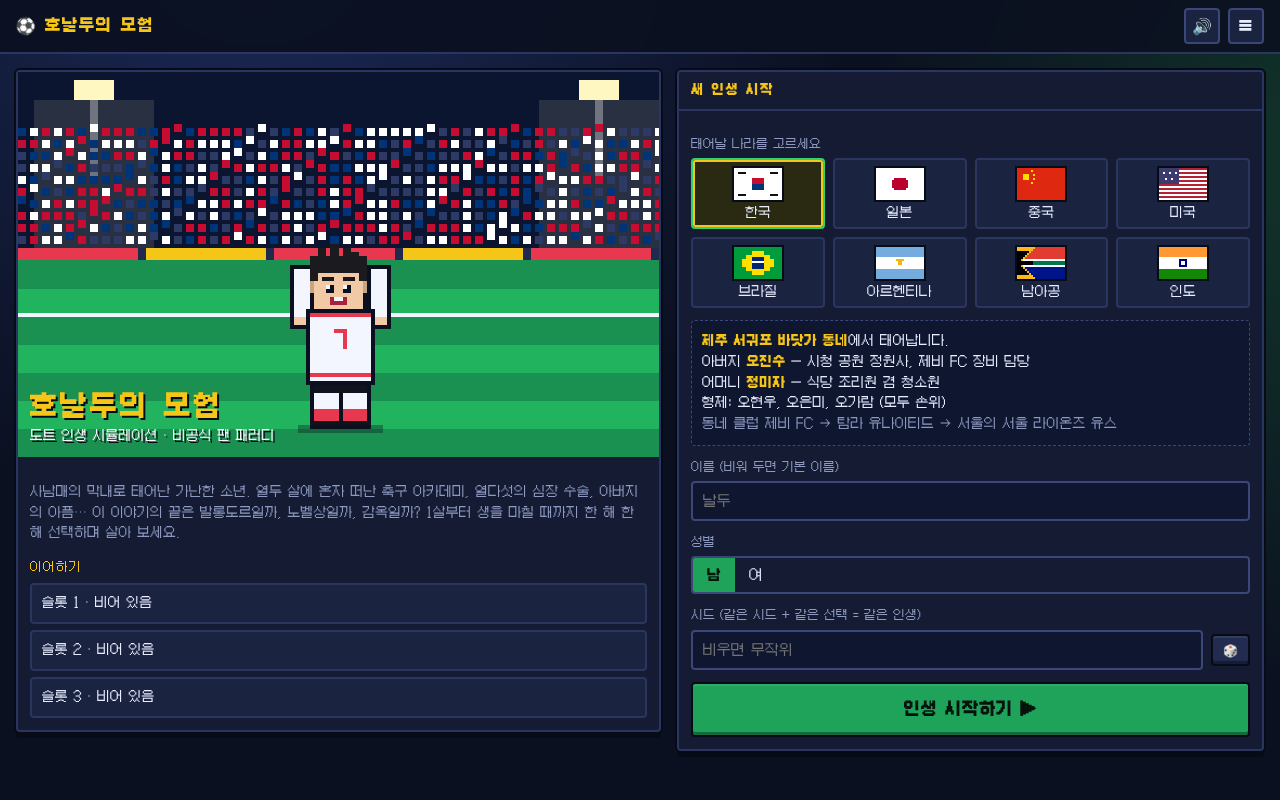
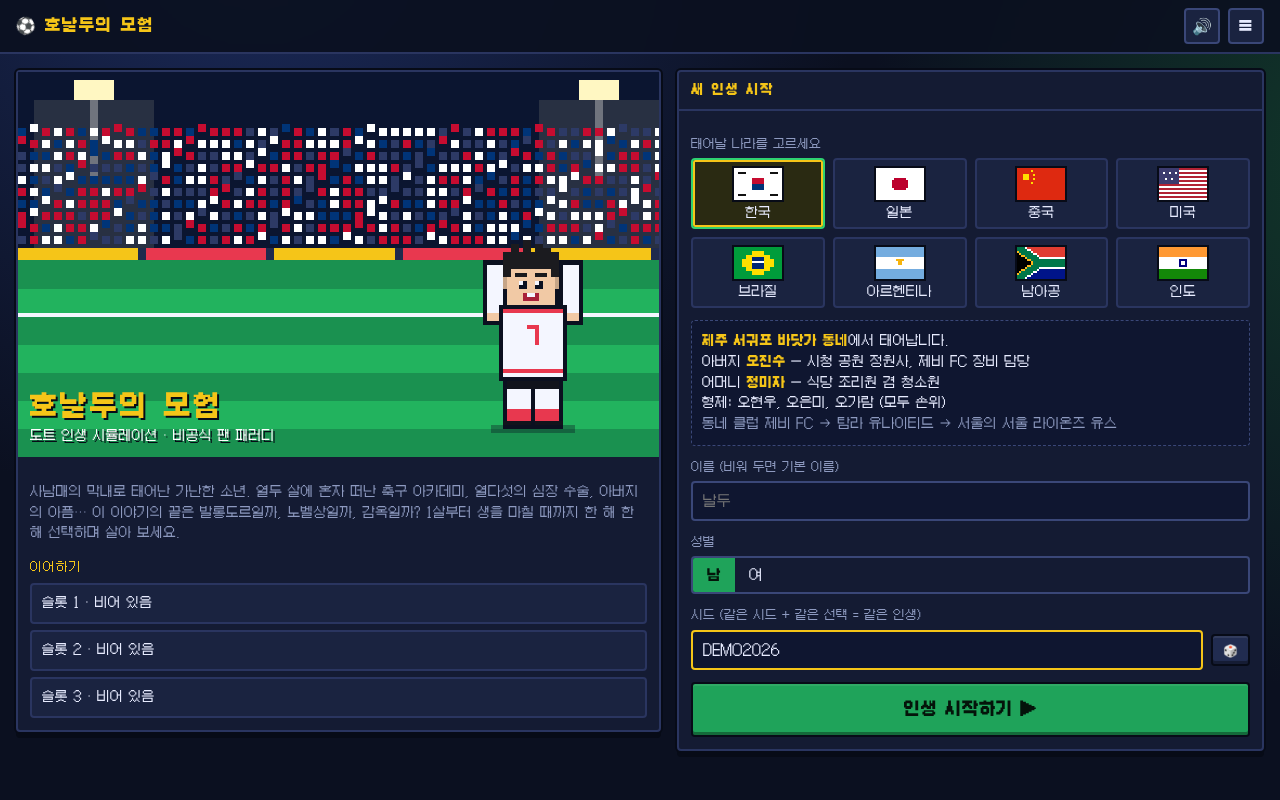
UI: redraw on resize/rotate, tap reasons on touch, title/sprite spacing, South Africa flag; docs and screenshots
Claude-Session: https://claude.ai/code/session_01JDo4Mn6pQ9gwYKpXAYtC3c

diff --git a/js/ui.js b/js/ui.js
@@ -24,6 +24,10 @@
   // ---------------------------------------------------------------- animation loop (≈12 fps)
   function addCanvas(el, draw) { app.canvases.push({ el: el, draw: draw }); draw(performance.now()); }
   var last = 0;
+  function redrawAll() {
+    var t = performance.now();
+    app.canvases.forEach(function (c) { try { c.draw(t); } catch (e) { /* ignore */ } });
+  }
   function loop(t) {
     if (t - last > 80) {
       last = t;
@@ -41,12 +45,12 @@
       outfit: E.outfit(s), gender: s.hero.gender, number: s.flags.number7 ? 7 : 28, sick: !!s.sick, mood: m
     };
   }
-  function portraitCanvas(cls, sceneFn, lookFn) {
+  function portraitCanvas(cls, sceneFn, lookFn, heroX) {
     var cv = doc.createElement('canvas'); cv.width = P.W; cv.height = P.H; cv.className = 'px ' + (cls || '');
     addCanvas(cv, function (t) {
       var ctx = cv.getContext('2d'); ctx.imageSmoothingEnabled = false;
       var sc = sceneFn(); P.drawScene(ctx, sc, t, country());
-      var lk = lookFn && lookFn(); if (lk && sc !== 'grave') P.drawHero(ctx, 80, 88, Object.assign({ t: t }, lk));
+      var lk = lookFn && lookFn(); if (lk && sc !== 'grave') P.drawHero(ctx, heroX || 80, 88, Object.assign({ t: t }, lk));
     });
     return cv;
   }
@@ -138,7 +142,7 @@
     banner.appendChild(portraitCanvas('', function () { return 'stadium'; }, function () {
       var cc = RA.data.countries[app.sel.country];
       return { age: 24, skin: cc.skin[0], hairColor: cc.hair, hair: 1, outfit: 'kit', gender: app.sel.gender, number: 7, mood: 'celebrate' };
-    }));
+    }, 128));
     banner.appendChild(h('<div class="title-over"><h1>호날두의 모험</h1><p>도트 인생 시뮬레이션 · 비공식 팬 패러디</p></div>'));
     // countries
     var grid = $('#countries', el);
@@ -204,6 +208,9 @@
   }
   function save() { if (app.s) S.save(app.slot, app.s); }
   function isPhone() { return G.innerWidth <= 860; }
+  function isTouch() {
+    try { return G.matchMedia('(hover: none)').matches || G.matchMedia('(pointer: coarse)').matches; } catch (e) { return 'ontouchstart' in G; }
+  }
 
   // ---------------------------------------------------------------- game screen
   function renderGame() {
@@ -316,12 +323,15 @@
     if (!s.alive) { p.innerHTML = '<p class="muted">이번 생은 끝났습니다.</p>'; return; }
     var grid = h('<div class="acts"></div>');
     E.activities(s).forEach(function (a) {
-      var b = h('<button class="act" ' + (a.ok ? '' : 'disabled') + ' title="' + esc(a.reason) + '"><span class="ic">' + a.icon + '</span><span>' + esc(a.label) + '</span>' + (a.cost === 0 ? '<span class="muted" style="font-size:10px">행동력 0</span>' : '') + '</button>');
-      b.addEventListener('click', function () { onActivity(a); });
+      var b = h('<button class="act' + (a.ok ? '' : ' is-off') + '" aria-disabled="' + (a.ok ? 'false' : 'true') + '" title="' + esc(a.reason) + '"><span class="ic">' + a.icon + '</span><span>' + esc(a.label) + '</span>' + (a.cost === 0 ? '<span class="muted" style="font-size:10px">행동력 0</span>' : '') + '</button>');
+      b.addEventListener('click', function () {
+        if (!a.ok) { A.play('bad'); toast(a.label + ': ' + (a.reason || '지금은 할 수 없어요.')); return; }
+        onActivity(a);
+      });
       grid.appendChild(b);
     });
     p.appendChild(grid);
-    p.appendChild(h('<p class="hint">해마다 행동력 ' + E.AP_PER_YEAR + '을 쓸 수 있어요. 다 쓰지 않아도 나이를 먹을 수 있습니다. 회색 버튼에 마우스를 올리면 이유가 보여요.</p>'));
+    p.appendChild(h('<p class="hint">해마다 행동력 ' + E.AP_PER_YEAR + '을 쓸 수 있어요. 다 쓰지 않아도 나이를 먹을 수 있습니다. ' + (isTouch() ? '회색 버튼을 누르면 할 수 없는 이유가 보여요.' : '회색 버튼에 마우스를 올리거나 누르면 이유가 보여요.') + '</p>'));
   }
 
   function onActivity(a) {
@@ -359,9 +369,10 @@
   function achById(id) { return (RA.data.achievements || []).filter(function (a) { return a.id === id; })[0]; }
 
   function relLabel(p) {
-    var map = { father: '아버지', mother: '어머니', spouse: '배우자', partner: '연인', child: p.gender === 'f' ? '딸' : '아들', coach: '코치', friend: '단짝', oldfriend: '옛 친구', ex: '옛 연인' };
-    if (p.role === 'sibling') return p.gender === 'f' ? '자매' : '형제';
-    return map[p.role] || p.role;
+    if (p.role === 'friend') return '단짝';
+    if (p.role === 'coach') return '코치';
+    if (p.role === 'oldfriend') return '옛 친구';
+    return E.relWord(app.s, p);
   }
   function relIcon(p) { return { father: '👨', mother: '👩', sibling: p.gender === 'f' ? '👧' : '👦', spouse: '💍', partner: '💘', child: '🧒', coach: '🧢', friend: '🤝', oldfriend: '👋', ex: '💔' }[p.role] || '🙂'; }
   function panelPeople(p) {
@@ -644,8 +655,21 @@
       if (e.key === 'Escape' && $('.modal-wrap') && !app.s || (e.key === 'Escape' && $('.modal-wrap') && !(app.s && app.s.queue.length))) closeModal();
       if (e.key === 'Enter' && app.screen === 'game' && !$('.modal-wrap') && doc.activeElement === doc.body) onAgeUp();
     });
-    var lastPhone = isPhone();
-    G.addEventListener('resize', function () { var ph = isPhone(); if (ph !== lastPhone) { lastPhone = ph; if (app.screen === 'game') { renderTabs(); renderPanel(); } } });
+    var resizeTimer = null, lastW = G.innerWidth;
+    function onViewportChange(e) {
+      // height-only changes (mobile address bar showing/hiding) must not rebuild the screen
+      if (e && e.type === 'resize' && G.innerWidth === lastW) { redrawAll(); return; }
+      lastW = G.innerWidth;
+      clearTimeout(resizeTimer);
+      resizeTimer = setTimeout(function () {
+        if (app.screen === 'game' && app.s) renderGame();
+        else if (app.screen === 'summary' && app.s) renderSummary();
+        else if (app.screen === 'start') renderStart();
+        redrawAll();
+      }, 150);
+    }
+    G.addEventListener('resize', onViewportChange);
+    G.addEventListener('orientationchange', onViewportChange);
     var list = S.list();
     renderStart();
     G.requestAnimationFrame(loop);

diff --git a/js/pixel.js b/js/pixel.js
@@ -346,7 +346,23 @@
       case 'us': for (var i = 0; i < 8; i++) r(0, i * 2, 24, 1, '#b22234'), r(0, i * 2 + 1, 24, 1, '#fff'); r(0, 0, 10, 8, '#3c3b6e'); r(2, 2, 1, 1, '#fff'); r(5, 2, 1, 1, '#fff'); r(8, 2, 1, 1, '#fff'); r(3, 5, 1, 1, '#fff'); r(6, 5, 1, 1, '#fff'); break;
       case 'br': r(0, 0, 24, 16, '#009c3b'); r(6, 4, 12, 8, '#ffdf00'); r(4, 6, 16, 4, '#ffdf00'); r(9, 2, 6, 12, '#ffdf00'); r(9, 5, 6, 6, '#002776'); r(9, 7, 6, 1, '#fff'); break;
       case 'ar': r(0, 0, 24, 16, '#fff'); r(0, 0, 24, 5, '#74acdf'); r(0, 11, 24, 5, '#74acdf'); r(11, 7, 2, 2, '#f6b40e'); r(10, 6, 4, 1, '#f6b40e'); break;
-      case 'za': r(0, 0, 24, 8, '#e03c31'); r(0, 8, 24, 8, '#001489'); r(0, 6, 24, 4, '#fff'); r(0, 7, 24, 2, '#007749'); for (var k = 0; k < 8; k++) { r(0, k, Math.max(1, 9 - k), 1, k < 7 ? '#ffb81c' : '#ffb81c'); r(0, 15 - k, Math.max(1, 9 - k), 1, '#ffb81c'); } for (var k2 = 1; k2 < 7; k2++) { r(0, k2 + 1, Math.max(0, 7 - k2), 1, '#000'); r(0, 14 - k2, Math.max(0, 7 - k2), 1, '#000'); } r(0, 7, 8, 2, '#000'); break;
+      case 'za': {
+        // Drawn per pixel from the flag's geometry: a green Y (white-edged outside, gold-edged inside)
+        // whose arms start at the hoist corners and join a horizontal band; black triangle at the hoist.
+        var X0 = 12, k = 8 / X0;
+        for (var py = 0; py < 16; py++) for (var px = 0; px < 24; px++) {
+          var cx = px + 0.5, dy = Math.abs(py + 0.5 - 8), dist, inFork = false;
+          if (cx >= X0) dist = dy;
+          else { var armY = k * (X0 - cx); dist = Math.abs(dy - armY) / Math.sqrt(1 + k * k); inFork = dy < armY; }
+          var col;
+          if (dist < 1.6) col = '#007749';
+          else if (dist < 2.6) col = inFork ? '#ffb81c' : '#ffffff';
+          else if (inFork) col = '#000000';
+          else col = py < 8 ? '#e03c31' : '#001489';
+          r(px, py, 1, 1, col);
+        }
+        break;
+      }
       case 'in': r(0, 0, 24, 5, '#ff9933'); r(0, 5, 24, 6, '#fff'); r(0, 11, 24, 5, '#138808'); r(10, 6, 4, 4, '#000080'); r(11, 7, 2, 2, '#fff'); break;
       default: r(0, 0, 24, 16, '#888');
     }

diff --git a/css/style.css b/css/style.css
@@ -93,7 +93,7 @@ input[type=text]:focus { outline: none; border-color: var(--gold); }
 .start { display: grid; gap: 16px; grid-template-columns: 1.1fr 1fr; align-items: start; }
 .hero-banner { position: relative; overflow: hidden; }
 .hero-banner canvas { width: 100%; height: auto; aspect-ratio: 160 / 96; }
-.hero-banner .title-over { position: absolute; left: 12px; right: 12px; bottom: 10px; text-shadow: 2px 2px 0 #070b17; }
+.hero-banner .title-over { position: absolute; left: 12px; bottom: 10px; max-width: 64%; text-shadow: 2px 2px 0 #070b17; }
 .title-over h1 { margin: 0; font-size: 28px; color: var(--gold); letter-spacing: 2px; line-height: 1.2; }
 .title-over p { margin: 2px 0 0; font-size: 13px; color: #fff; }
 .pitch-text { font-size: 13px; color: var(--muted); }
@@ -179,8 +179,8 @@ input[type=text]:focus { outline: none; border-color: var(--gold); }
   padding: 10px 4px; display: grid; justify-items: center; gap: 2px; font-size: 12px; min-height: 66px; text-align: center;
 }
 .act .ic { font-size: 20px; line-height: 1.1; }
-.act:hover:not(:disabled) { border-color: var(--green); transform: translateY(-1px); }
-.act:disabled { opacity: .4; cursor: not-allowed; }
+.act:hover:not(.is-off) { border-color: var(--green); transform: translateY(-1px); }
+.act.is-off { opacity: .4; cursor: help; }
 .hint { font-size: 12px; color: var(--muted); margin: 10px 0 0; }
 
 .people { display: grid; gap: 8px; }
@@ -283,6 +283,7 @@ input[type=text]:focus { outline: none; border-color: var(--gold); }
   .countries { grid-template-columns: repeat(4, 1fr); }
   .seed-chip { display: none; }
   .title-over h1 { font-size: 22px; }
+  .title-over p { font-size: 11px; }
 }
 @media (max-width: 400px) {
   .acts { grid-template-columns: repeat(3, 1fr); gap: 6px; }

diff --git a/docs/DESIGN.md b/docs/DESIGN.md
@@ -66,6 +66,58 @@ Failbetter Games' StoryNexus/"storylet" design diaries, Choice of Games "End Gam
 - **Mobile.** ≤ 860px: single column, portrait + stats on top, tabs (기록/활동/관계/학업·직업/축구/업적),
   newest-first log, sticky bottom age button. Checked at 390×844.
 
+## 2b. Narrative-consistency rules (review round 1)
+
+- **Person gating.** Before an event can fire, the engine collects every person it names: the tokens
+  `{father} {mother} {bro} {sis1} {sis2} {spouse} {partner} {child} {friend} {coach} {siblings}`, plus the plain
+  words 아버지/아빠 and 어머니/엄마. Words like 할아버지 or 시어머니 are removed first, and events about the hero's
+  own children are exempt. The event is eligible only while each named person is alive and present
+  (`Engine.personsOk`). The same check runs on scheduled follow-ups, on queued modal events (`currentEvent` drops an event
+  that became invalid), and on activity flavour lines.
+- **Memorial tag.** `memorial: true` or `memorial: ['father']` lets an event name people who have died. A condition
+  `rel: { mother: 'dead' }` or the flags `father_dead`/`mother_dead` imply it. Log lines written by memorial events
+  carry `mem: 1`, which the narrative test uses.
+- **Siblings as a group.** `{siblings}` renders only living siblings ("현우, 가람"), and `{siblingsAll}` gives a count
+  word that includes the hero ("셋"). An event that uses either is skipped when no sibling is alive.
+- **Deaths.** `Engine.relWord` gives the correct kinship word: 형/오빠/누나/언니/남동생/여동생 from the hero's
+  gender and birth order, plus 아내/남편/아들/딸. A death in the family queues a seriously written grief event
+  (`sys_grief`; the father keeps `canon_father_farewell`). That year no random storylets fire, only due follow-ups and
+  priority events. A "first holiday after a death" event uses `cond.recent: { mother_dead: 2 }`, so it fires at most
+  once and only within 2 years of the death. Present-tense texts that say "여섯 식구" use `cond.family: 'all'`, which
+  requires both parents and all three siblings to be alive.
+- **Jail gating.** While the hero is in prison, only events flagged `jailOk`, `anyState`, or with `cond.flags`
+  containing `jailed` may fire. Grief and farewell events count as family visits. Queued events are filtered the moment
+  a sentence starts (`dropJailBlocked`). A scheduled follow-up that comes due during the sentence waits until release.
+  Only study, exercise, meditation and family visits remain as activities, with prison-specific lines.
+- **homeShort.** Each country has `places.homeShort`, a short noun such as "서귀포 돌담집". `{house}` now renders
+  this short form, so it reads naturally inside sentences ("어릴 적 {house}에서 했던 다짐"). The long description is
+  `{houseLong}` and is used only in the birth line.
+- **Particles.** `Text.fixJosa` looks past closing quotes and brackets to find the last syllable:
+  `"장례지도사"(으)로` → `"장례지도사"로`. `Text.hasLeftoverJosa` detects any marker that slipped through.
+- **Repetition.** Activity flavour lines come from per-stage pools: football has child, teen, academy, pro, veteran
+  and amateur pools of 10–12 lines, and work, exercise, haircut, family, kids, doctor and others have 9–15 each.
+  `Engine.line` never repeats a line within 3 years. Family time draws from one pool covering the family of origin,
+  the hero's own family and memories, so there is always something left to say.
+- **Names.** New friends, partners, coaches and children get given names that nobody in the hero's life already has,
+  which avoids confusing namesakes.
+- **Test.** `test/narrative.test.js` plays 100 seeded lives per country with three autoplayer archetypes. It asserts
+  zero non-memorial mentions of a person after their death, zero leftover particle markers, zero non-prison events
+  while jailed (the log marks entries written in prison with `j: 1`), and no activity line repeated within 3 years.
+  It also includes unit tests for each rule above.
+
+## 2c. UI notes (review round 1, part B)
+
+- Resizing the viewport or rotating the phone rebuilds the current screen after a 150 ms debounce, with fresh 160×96
+  canvases that keep `image-rendering: pixelated`. Height-only resizes, such as the mobile address bar appearing or
+  hiding, only trigger a redraw.
+- Unavailable activities are not `disabled`; they are marked `aria-disabled` with an `is-off` style. Tapping one
+  shows the reason in a toast. Desktop keeps the hover tooltip, and the hint text depends on
+  `(hover: none)` / `(pointer: coarse)`.
+- On the title banner the hero stands at x=128 and the title is limited to 64% of the width, so they no longer
+  overlap at 360–430 px.
+- The South African flag is drawn pixel by pixel from its geometry: green Y bands, white edges outside the Y, gold
+  edges inside, and the black hoist triangle.
+
 ## 3. Architecture
 
 ```
@@ -309,7 +361,7 @@ no national/ethnic stereotypes, father's alcoholism/illness handled seriously an
 | moveAbroad | emigrate (sets `abroad`) |
 | becomeMonk / leaveMonastery | religious life (career `monk`, sets/clears `monk`) |
 
-Additional engine-only event fields (used by canon/system events): `manual: true` (never picked
+Additional event fields: `memorial: true | [persons]`, `jailOk: true`, `cond.recent: { flag: years }`, `cond.family: 'all'`, country `places.homeShort`, tokens `{houseLong}`, `{siblings}`, `{siblingsAll}`. Engine-only (canon/system events): `manual: true` (never picked
 randomly; queued by the engine), `when: function (s) {…}` (extra condition), `textFn`, `choicesFn`,
 choice `run: function (s) {…}`, choice `reqFn`, and `check.min/max` to clamp a skill-check chance.
 
@@ -354,26 +406,24 @@ finite, or any life throws. Latest output:
 
 | country | avgDeath | median | min | max | pro | natTeam | ballon | worldCup | topOfCareer | degree | married | kidsAvg | jailed | fatherSober | fatherDiedAtAvg | achievementsAvg | sectorsUsed |
 |---|---|---|---|---|---|---|---|---|---|---|---|---|---|---|---|---|---|
-| kr | 72.2 | 74 | 5 | 99 | 27.2% | 23.0% | 4.8% | 1.2% | 73.8% | 56.0% | 36.6% | 0.37 | 22.0% | 4.0% | 23.8 | 7.3 | 22 |
-| jp | 72.1 | 74 | 28 | 96 | 25.0% | 20.6% | 7.0% | 1.0% | 72.0% | 52.2% | 40.4% | 0.51 | 21.4% | 4.0% | 24.0 | 7.2 | 20 |
-| cn | 70.9 | 72 | 8 | 99 | 24.2% | 20.0% | 5.4% | 1.0% | 75.4% | 53.8% | 38.8% | 0.46 | 19.4% | 4.8% | 24.1 | 7.0 | 22 |
-| us | 70.3 | 72 | 11 | 99 | 25.4% | 22.6% | 6.6% | 1.8% | 67.8% | 50.2% | 35.8% | 0.41 | 22.2% | 4.4% | 23.8 | 7.0 | 22 |
-| br | 71.4 | 72 | 4 | 101 | 28.2% | 24.2% | 3.8% | 5.4% | 71.6% | 53.8% | 39.4% | 0.42 | 20.8% | 4.0% | 23.9 | 7.3 | 22 |
-| ar | 71.3 | 73 | 17 | 97 | 25.0% | 20.2% | 6.4% | 4.0% | 71.0% | 51.4% | 40.2% | 0.31 | 24.4% | 3.2% | 23.8 | 7.1 | 22 |
-| za | 71.8 | 73 | 3 | 97 | 26.8% | 21.6% | 6.2% | 1.0% | 74.0% | 51.6% | 35.6% | 0.39 | 19.0% | 3.8% | 23.5 | 7.2 | 22 |
-| in | 70.6 | 73 | 4 | 100 | 27.4% | 23.4% | 4.8% | 0.4% | 73.8% | 55.0% | 39.4% | 0.36 | 19.8% | 3.2% | 23.7 | 7.2 | 22 |
-Top career sectors by country:
-- kr: sports 26.4%, trade 11.6%, service 7.0%, entertainment 6.6%, parttime 5.6%, agri 5.2%
+| kr | 69.9 | 72 | 7 | 98 | 28.2% | 24.4% | 5.0% | 1.0% | 71.0% | 51.4% | 41.4% | 0.42 | 18.8% | 3.4% | 24.1 | 7.2 | 22 |
+| jp | 70.1 | 72 | 4 | 100 | 27.0% | 21.4% | 6.0% | 0.6% | 71.6% | 53.0% | 34.4% | 0.38 | 22.0% | 4.4% | 23.9 | 7.1 | 21 |
+| cn | 70.5 | 72 | 3 | 100 | 26.2% | 21.2% | 6.2% | 0.4% | 72.6% | 54.4% | 34.0% | 0.38 | 19.4% | 3.0% | 24.1 | 7.1 | 21 |
+| us | 69.6 | 71 | 11 | 95 | 28.0% | 24.2% | 8.0% | 2.0% | 73.0% | 53.2% | 36.6% | 0.40 | 20.0% | 2.8% | 23.7 | 7.3 | 21 |
+| br | 70.3 | 72 | 4 | 99 | 27.8% | 23.0% | 4.2% | 6.4% | 72.0% | 52.4% | 38.0% | 0.38 | 16.8% | 3.6% | 24.2 | 7.2 | 22 |
+| ar | 69.8 | 71 | 12 | 98 | 24.8% | 21.2% | 6.4% | 5.2% | 70.8% | 54.4% | 32.8% | 0.42 | 22.4% | 3.6% | 23.8 | 7.0 | 22 |
+| za | 70.0 | 71 | 9 | 95 | 24.4% | 20.6% | 5.2% | 0.4% | 72.0% | 51.0% | 34.0% | 0.46 | 21.0% | 3.6% | 23.8 | 6.9 | 22 |
+| in | 71.2 | 73 | 11 | 99 | 25.2% | 21.8% | 4.2% | 0.0% | 70.8% | 50.6% | 42.6% | 0.41 | 22.0% | 4.6% | 24.1 | 7.1 | 21 |
 
-- jp: sports 27.0%, entertainment 10.0%, trade 9.0%, parttime 8.4%, service 7.2%, agri 5.4%
-- cn: sports 24.4%, trade 9.6%, service 8.8%, entertainment 8.0%, arts 7.6%, parttime 6.6%
-- us: sports 23.8%, service 9.4%, parttime 9.0%, trade 8.4%, entertainment 6.4%, arts 6.4%
-- br: sports 26.6%, trade 9.2%, service 8.4%, arts 6.6%, religion 6.4%, parttime 5.6%
-- ar: sports 27.2%, service 11.0%, trade 8.4%, entertainment 6.8%, parttime 6.0%, public 5.8%
-- za: sports 26.2%, trade 8.4%, service 8.4%, entertainment 7.0%, agri 5.8%, public 5.8%
-- in: sports 30.2%, service 8.2%, entertainment 7.8%, parttime 6.8%, trade 6.2%, arts 5.6%
-Subtest: simulate 500 lives in kr
-ok 16 - simulate 500 lives in kr
+Top career sectors by country:
+- kr: sports 29.2%, trade 8.2%, parttime 7.0%, agri 6.8%, transport 5.8%, service 5.6%
+- jp: sports 27.2%, service 9.2%, entertainment 8.8%, parttime 7.4%, trade 7.4%, agri 6.2%
+- cn: sports 24.8%, trade 9.2%, service 8.2%, parttime 8.0%, entertainment 7.0%, agri 5.8%
+- us: sports 27.2%, trade 8.2%, entertainment 8.0%, service 7.6%, parttime 6.6%, arts 6.6%
+- br: sports 24.4%, service 9.8%, entertainment 7.8%, trade 7.6%, parttime 7.2%, arts 6.6%
+- ar: sports 25.0%, trade 8.6%, agri 7.8%, parttime 7.4%, entertainment 6.8%, service 6.2%
+- za: sports 25.8%, trade 10.0%, parttime 7.8%, entertainment 7.6%, service 6.4%, agri 5.8%
+- in: sports 25.0%, trade 11.8%, entertainment 8.0%, parttime 7.4%, arts 6.6%, service 6.4%
 
 Reading: about a quarter of lives turn pro (higher for the football-focused archetype), roughly one in five
 pros wins a Ballon d'Or, and World Cups are realistic by country (Brazil/Argentina ≈ 4–5 %, India ≈ 0.4 %).
@@ -386,7 +436,7 @@ Cup odds lowered, fraud-offer event made once-per-life.
 
 ## 8. Verification
 
-- `npm test` → 23 tests pass (schema, volume, conditions, age-up, checks, careers/promotion, 8-country
+- `npm test` → all tests pass (now including the narrative-consistency suite) (schema, volume, conditions, age-up, checks, careers/promotion, 8-country
   family generation, particles, save round trip, v1 migration, deterministic replay, delayed events,
   generations, football route, 8 × 500-life simulation).
 - Headless Chromium (Playwright) at 1280×800 and 390×844 from `file://`: country select → age 1 → events
